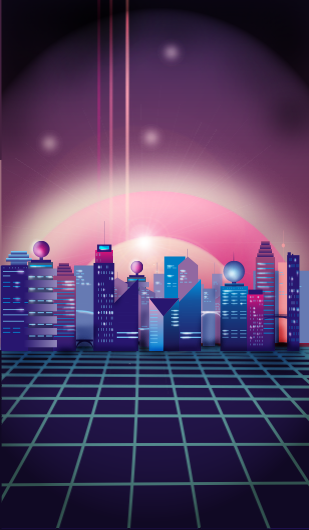
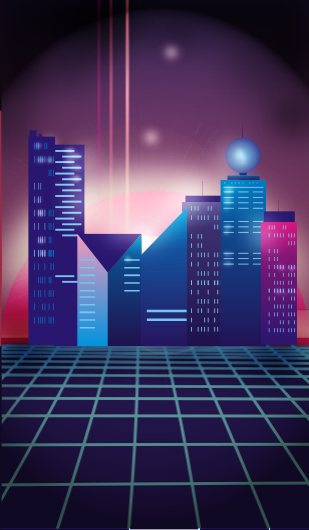
new clickArea images, changing spaceport and railstation graphics

Changed region(s): [[0.0, 0.0, 1.0, 0.6943], [0.4078, 0.9962, 0.8738, 1.0], [0.1748, 0.9962, 0.2039, 1.0]]

diff --git a/CityClickerGame/CityClickerGame/MainWindow.xaml b/CityClickerGame/CityClickerGame/MainWindow.xaml
@@ -427,7 +427,7 @@
             </TextBlock.Foreground>
         </TextBlock>
 
-        <Image x:Name="clickArea" HorizontalAlignment="Left" Height="528" Margin="9,9,0,0" VerticalAlignment="Top" Width="309" Source="Resources/clickAreaBackground1.png" MouseDown="ClickArea_Click"/>
+        <Image x:Name="clickArea" HorizontalAlignment="Left" Height="528" Margin="9,9,0,0" VerticalAlignment="Top" Width="309" Source="Resources/clickAreaBackground0.png" MouseDown="ClickArea_Click"/>
         <TextBlock x:Name="ppsTextBlock" HorizontalAlignment="Left" Margin="19,247,0,0" TextWrapping="Wrap" Text="PPS:" VerticalAlignment="Top" FontFamily="Visitor TT1 BRK" FontWeight="Bold" FontSize="18" TextDecorations="{x:Null}" FontStyle="Italic" Grid.Column="1" Foreground="#FFF975FF"/>
         <TextBlock x:Name="ppsValueTextBlock" HorizontalAlignment="Left" Margin="19,264,0,0" TextWrapping="Wrap" Text="0" Height="20" Width="126" LineHeight="6" FontSize="20" VerticalAlignment="Top" FontFamily="Visitor TT1 BRK" FontWeight="Bold" Background="#66FFFFFF" Grid.Column="1">
             <TextBlock.Foreground>

diff --git a/CityClickerGame/CityClickerGame/Factory.cs b/CityClickerGame/CityClickerGame/Factory.cs
@@ -172,11 +172,14 @@ namespace CityClickerGame
         //Fills clickArea backgrounds array with images
         public void BuildBackgroundImagesArray(BackgroundImage[] images)
         {
-            images[0] = new BackgroundImage(new BitmapImage(new Uri("Resources/clickAreaBackground2.png", UriKind.Relative)), 10);
-            images[1] = new BackgroundImage(new BitmapImage(new Uri("Resources/clickAreaBackground3.png", UriKind.Relative)), 500);
-            images[2] = new BackgroundImage(new BitmapImage(new Uri("Resources/clickAreaBackground4.png", UriKind.Relative)), 10000);
-            images[3] = new BackgroundImage(new BitmapImage(new Uri("Resources/clickAreaBackground5.png", UriKind.Relative)), 100000);
-            images[4] = new BackgroundImage(new BitmapImage(new Uri("Resources/clickAreaBackground6.png", UriKind.Relative)), 1000000);
+            images[0] = new BackgroundImage(new BitmapImage(new Uri("Resources/clickAreaBackground1.png", UriKind.Relative)), 10);
+            images[1] = new BackgroundImage(new BitmapImage(new Uri("Resources/clickAreaBackground2.png", UriKind.Relative)), 500);
+            images[2] = new BackgroundImage(new BitmapImage(new Uri("Resources/clickAreaBackground3.png", UriKind.Relative)), 5000);
+            images[3] = new BackgroundImage(new BitmapImage(new Uri("Resources/clickAreaBackground4.png", UriKind.Relative)), 50000);
+            images[4] = new BackgroundImage(new BitmapImage(new Uri("Resources/clickAreaBackground5.png", UriKind.Relative)), 300000);
+            images[5] = new BackgroundImage(new BitmapImage(new Uri("Resources/clickAreaBackground6.png", UriKind.Relative)), 1000000);
+            images[6] = new BackgroundImage(new BitmapImage(new Uri("Resources/clickAreaBackground7.png", UriKind.Relative)), 5000000);
+            images[7] = new BackgroundImage(new BitmapImage(new Uri("Resources/clickAreaBackground8.png", UriKind.Relative)), 10000000);
         }
 
         //Fills shower thoughts list

diff --git a/CityClickerGame/CityClickerGame/MainWindow.xaml.cs b/CityClickerGame/CityClickerGame/MainWindow.xaml.cs
@@ -37,7 +37,7 @@ namespace CityClickerGame
         Technology[] technologiesArray = new Technology[28];
         Random random = new Random();
         //backgroundsArrays contains all images for clickArea
-        BackgroundImage[] backgroundsArray = new BackgroundImage[5];
+        BackgroundImage[] backgroundsArray = new BackgroundImage[8];
         //Shower thoughts list
         List<string> thoughts = new List<string>();
 
